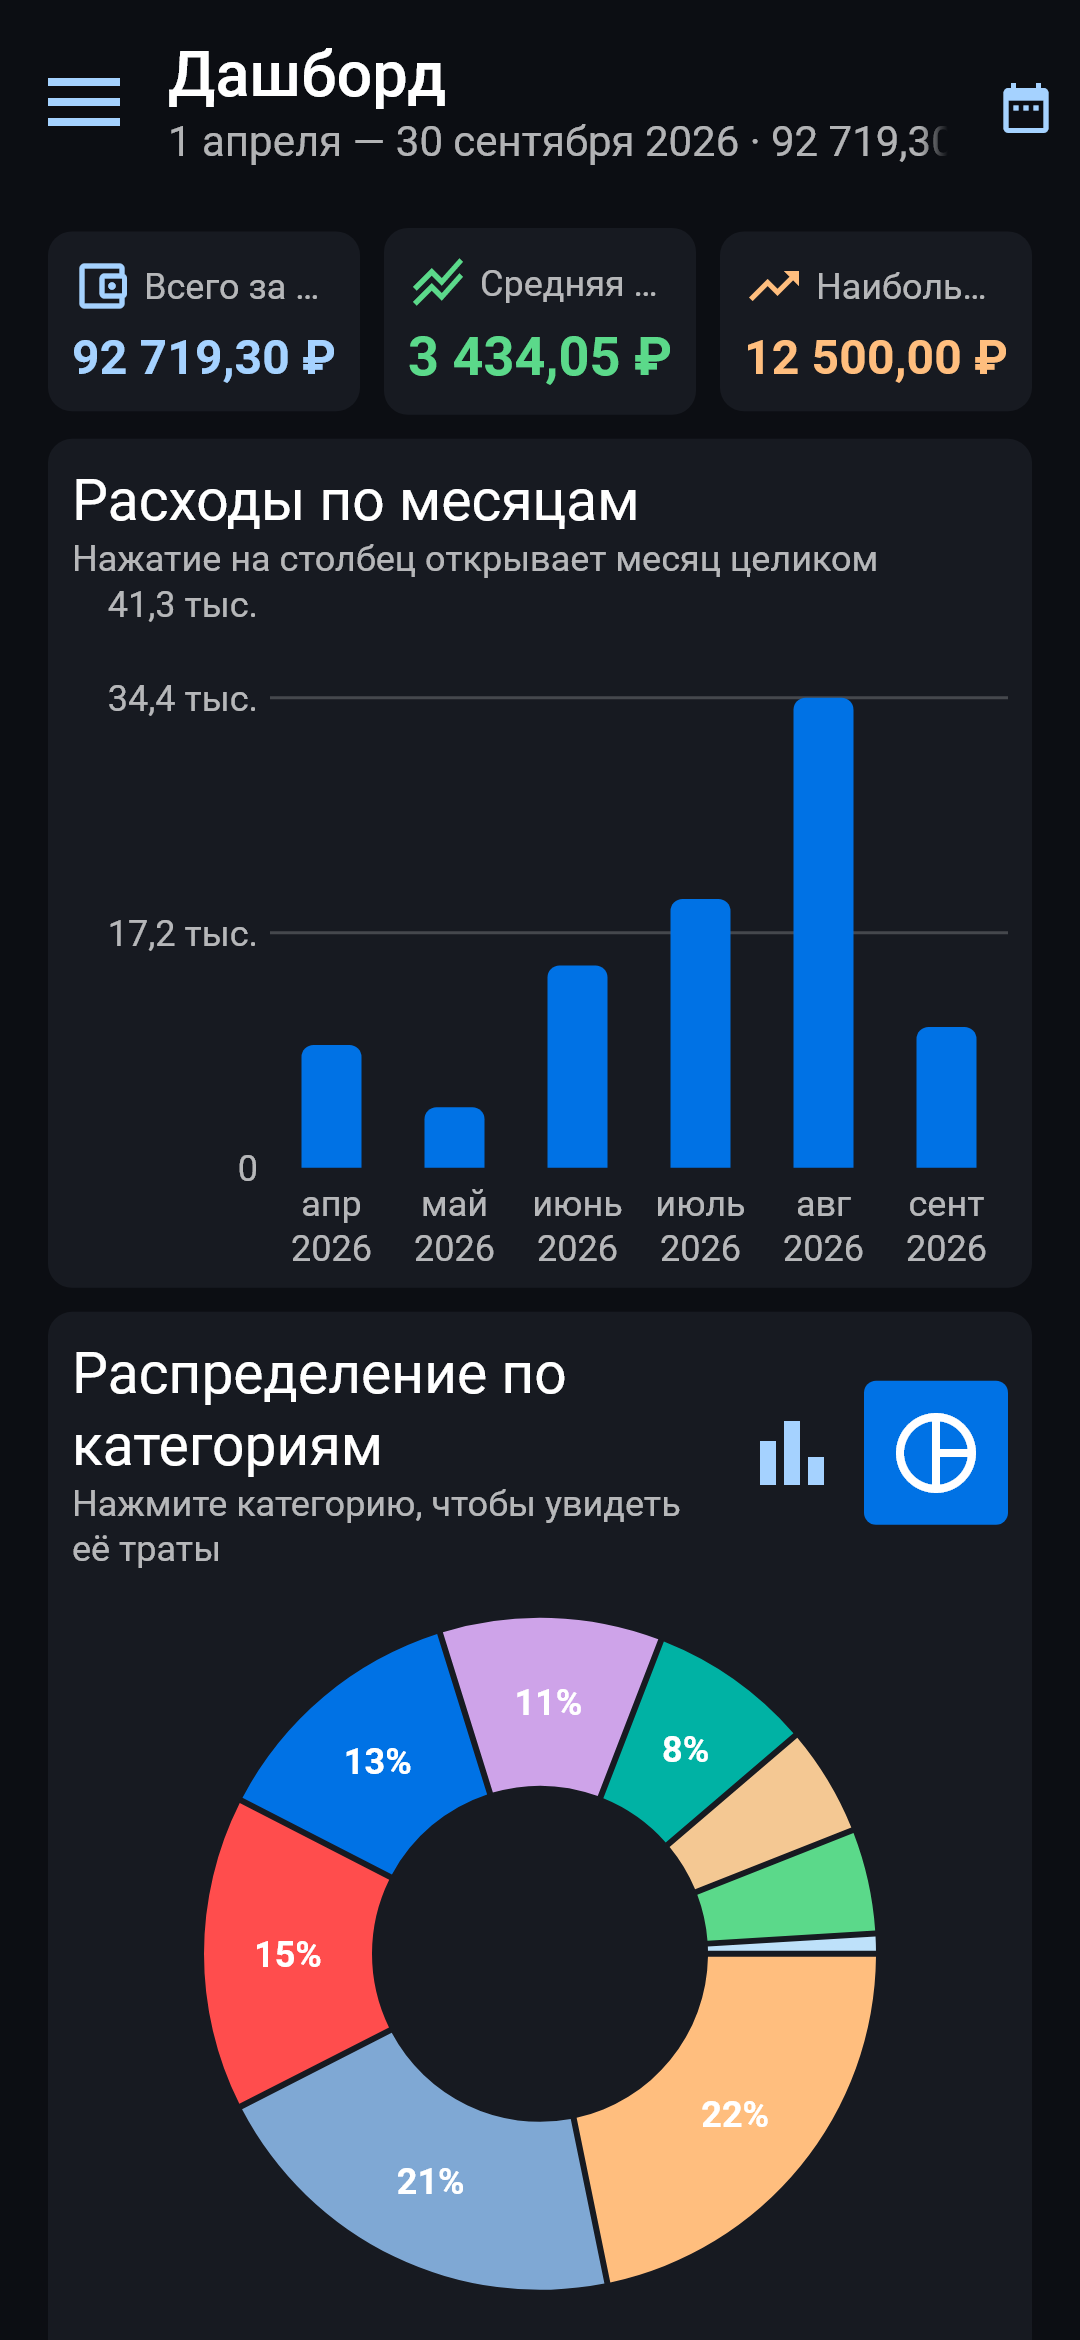
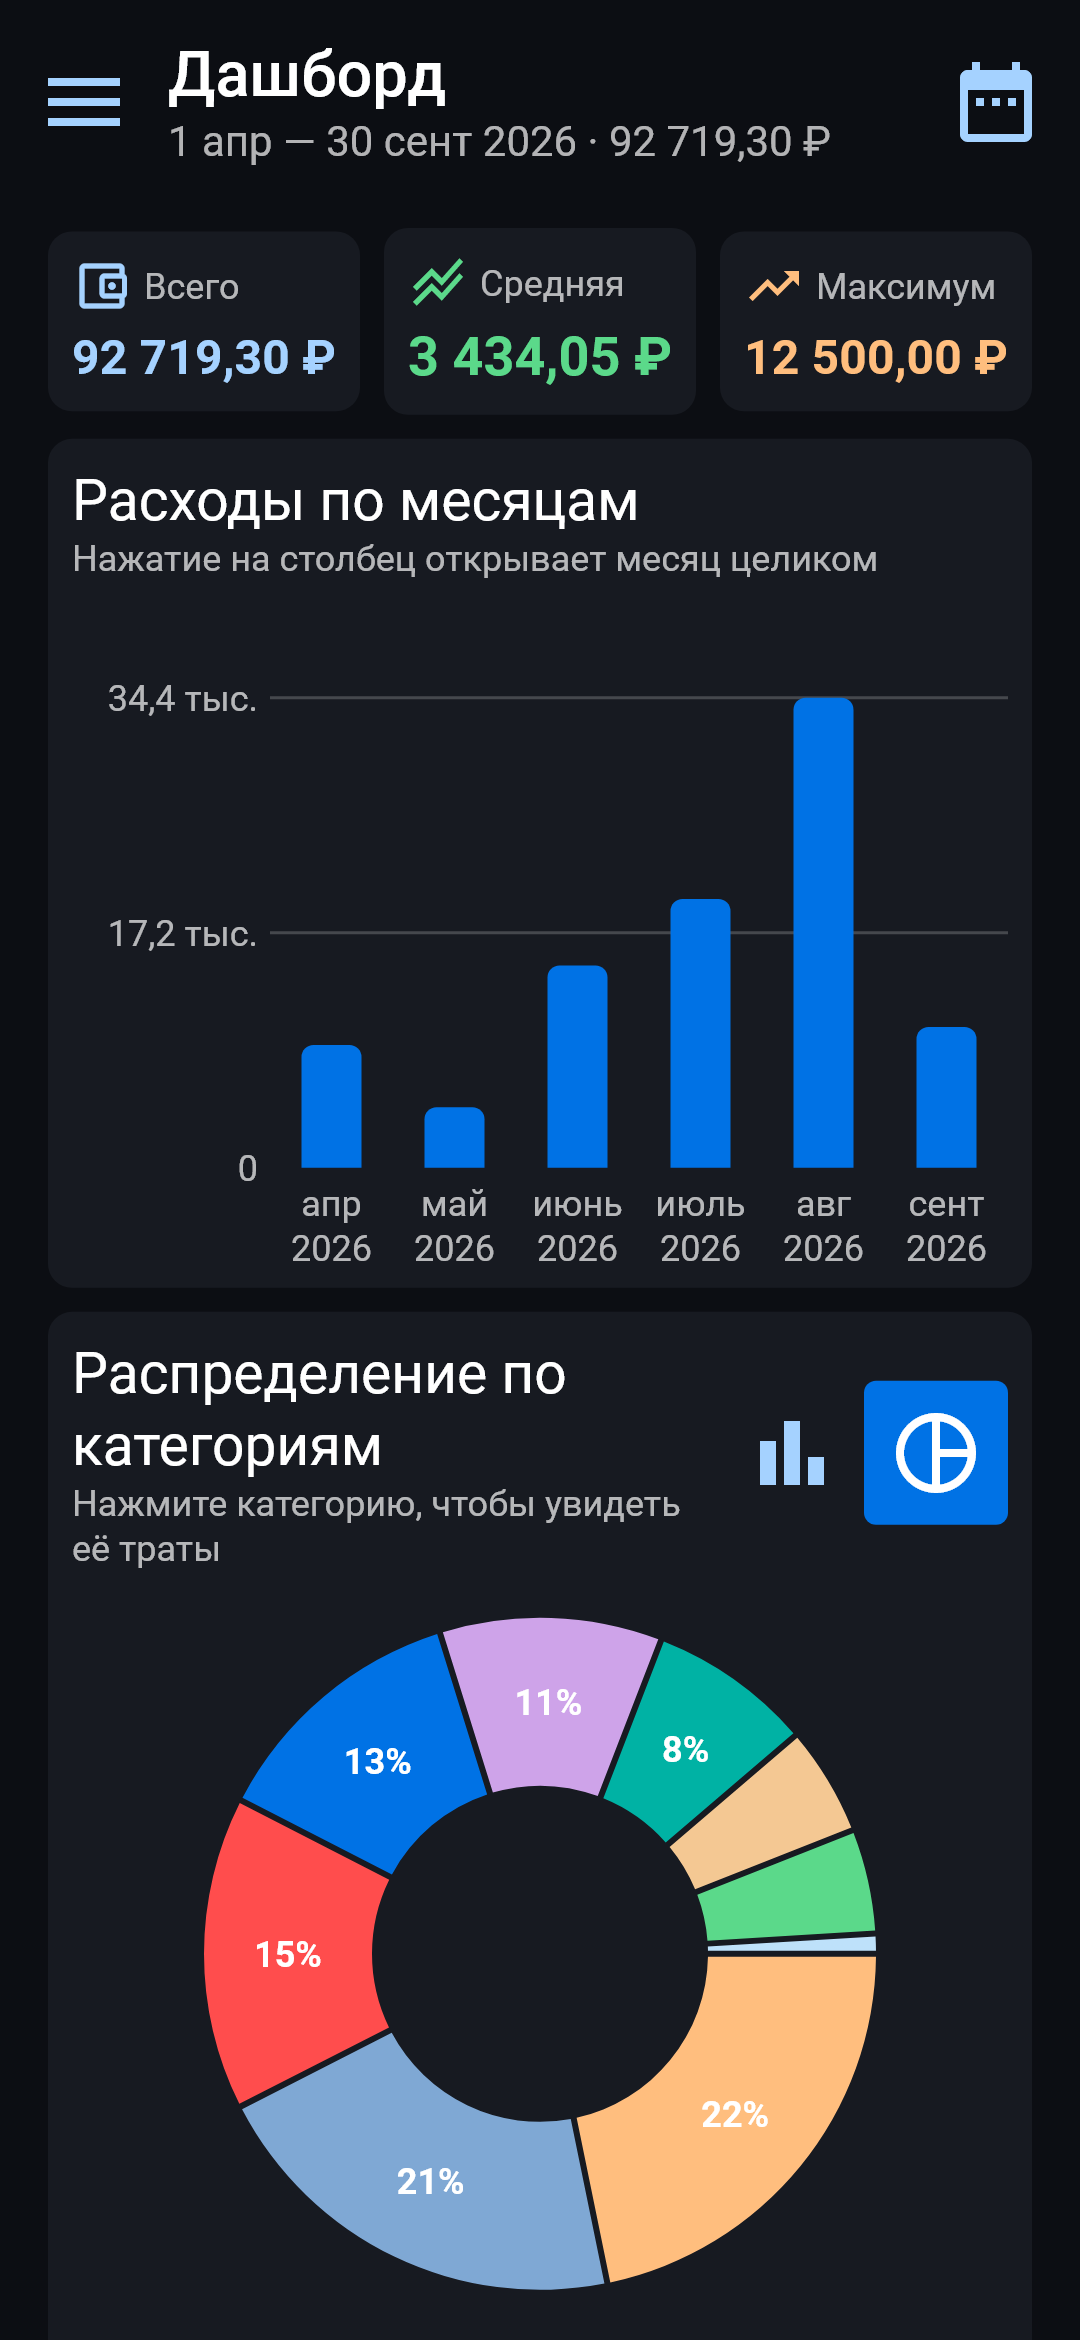
Подписи, которые обрезались на узком экране
- короткий формат периода в подзаголовке дашборда;
- короткие подписи плиток: «Всего», «Средняя», «Максимум»;
- верхняя граница оси диаграммы больше не подписывается.

diff --git a/test/tap_targets_test.dart b/test/tap_targets_test.dart
@@ -55,7 +55,10 @@ List<_Control> _controls(WidgetTester tester, List<Type> types) {
         continue;
       }
       final Iterable<Element> texts = find
-          .descendant(of: find.byWidget(element.widget), matching: find.byType(Text))
+          .descendant(
+            of: find.byWidget(element.widget),
+            matching: find.byType(Text),
+          )
           .evaluate();
       final String label = texts.isEmpty
           ? ''
@@ -99,23 +102,27 @@ void main() {
           expect(
             rect.left,
             greaterThanOrEqualTo(-tolerance),
-            reason: '$where: ${control.type} «${control.label}» '
+            reason:
+                '$where: ${control.type} «${control.label}» '
                 'выходит за левый край',
           );
           expect(
             rect.right,
             lessThanOrEqualTo(screen.width + tolerance),
-            reason: '$where: ${control.type} «${control.label}» '
+            reason:
+                '$where: ${control.type} «${control.label}» '
                 'выходит за правый край',
           );
           // Элементы, прокрученные за пределы экрана, не проверяем.
           final bool onScreen =
-              rect.top >= -tolerance && rect.bottom <= screen.height + tolerance;
+              rect.top >= -tolerance &&
+              rect.bottom <= screen.height + tolerance;
           if (onScreen) {
             expect(
               rect.height,
               greaterThanOrEqualTo(minTarget - tolerance),
-              reason: '$where: ${control.type} «${control.label}» '
+              reason:
+                  '$where: ${control.type} «${control.label}» '
                   'ниже минимальной цели нажатия',
             );
             if (control.type == IconButton ||
@@ -133,13 +140,15 @@ void main() {
           expect(
             control.rect.left,
             greaterThanOrEqualTo(-tolerance),
-            reason: '$where: ${control.type} «${control.label}» '
+            reason:
+                '$where: ${control.type} «${control.label}» '
                 'выходит за левый край',
           );
           expect(
             control.rect.right,
             lessThanOrEqualTo(screen.width + tolerance),
-            reason: '$where: ${control.type} «${control.label}» '
+            reason:
+                '$where: ${control.type} «${control.label}» '
                 'выходит за правый край',
           );
         }

diff --git a/lib/ui/screens/dashboard/dashboard_page.dart b/lib/ui/screens/dashboard/dashboard_page.dart
@@ -67,6 +67,15 @@ class _DashboardPageState extends State<DashboardPage> {
     return Formatters.range(range.start, range.end);
   }
 
+  /// Тот же период в коротком виде — для подзаголовка панели приложения.
+  String get _periodLabelShort {
+    final DateRange? range = _range;
+    if (range == null) {
+      return 'Всё время';
+    }
+    return Formatters.rangeShort(range.start, range.end);
+  }
+
   Future<void> _pickPeriod(DashboardPeriod period) async {
     if (period != DashboardPeriod.custom) {
       setState(() => _period = period);
@@ -194,7 +203,7 @@ class _DashboardPageState extends State<DashboardPage> {
     return Scaffold(
       appBar: AuroraAppBar(
         title: 'Дашборд',
-        subtitle: '$_periodLabel · ${Formatters.money(total)}',
+        subtitle: '$_periodLabelShort · ${Formatters.money(total)}',
         leading: widget.leading,
         actions: <Widget>[
           _PeriodButton(current: _period, onSelected: _pickPeriod),
@@ -276,7 +285,7 @@ class _StatsRow extends StatelessWidget {
       children: <Widget>[
         Expanded(
           child: AuroraStatTile(
-            label: 'Всего за период',
+            label: 'Всего',
             value: Formatters.money(total),
             icon: Icons.account_balance_wallet_outlined,
           ),
@@ -284,7 +293,7 @@ class _StatsRow extends StatelessWidget {
         const SizedBox(width: AuroraSizes.paddingMedium),
         Expanded(
           child: AuroraStatTile(
-            label: 'Средняя трата',
+            label: 'Средняя',
             value: Formatters.money(ExpenseAnalytics.average(expenses)),
             icon: Icons.stacked_line_chart,
             accent: palette.success,
@@ -293,7 +302,7 @@ class _StatsRow extends StatelessWidget {
         const SizedBox(width: AuroraSizes.paddingMedium),
         Expanded(
           child: AuroraStatTile(
-            label: 'Наибольшая',
+            label: 'Максимум',
             value: largest == null ? '—' : Formatters.money(largest.amount),
             icon: Icons.trending_up,
             accent: palette.warning,

diff --git a/lib/ui/screens/dashboard/charts.dart b/lib/ui/screens/dashboard/charts.dart
@@ -64,17 +64,23 @@ class MonthlyBarChart extends StatelessWidget {
                 showTitles: true,
                 reservedSize: 66,
                 interval: maxValue == 0 ? 1 : maxValue / 2,
-                getTitlesWidget: (double value, TitleMeta meta) => Padding(
-                  padding: const EdgeInsets.only(
-                    right: AuroraSizes.paddingSmall,
-                  ),
-                  child: Text(
-                    value == 0 ? '0' : Formatters.compactNumber(value),
-                    style: text.bodySmall,
-                    maxLines: 1,
-                    textAlign: TextAlign.right,
-                  ),
-                ),
+                getTitlesWidget: (double value, TitleMeta meta) {
+                  // Верхняя граница оси лежит выше сетки — её не подписываем.
+                  if (value > maxValue) {
+                    return const SizedBox.shrink();
+                  }
+                  return Padding(
+                    padding: const EdgeInsets.only(
+                      right: AuroraSizes.paddingSmall,
+                    ),
+                    child: Text(
+                      value == 0 ? '0' : Formatters.compactNumber(value),
+                      style: text.bodySmall,
+                      maxLines: 1,
+                      textAlign: TextAlign.right,
+                    ),
+                  );
+                },
               ),
             ),
             bottomTitles: AxisTitles(

diff --git a/lib/core/format/formatters.dart b/lib/core/format/formatters.dart
@@ -24,6 +24,7 @@ class Formatters {
   static final DateFormat _dayMonth = DateFormat('d MMMM', locale);
   static final DateFormat _monthYear = DateFormat('LLLL yyyy', locale);
   static final DateFormat _monthShort = DateFormat('LLL', locale);
+  static final DateFormat _dayMonthShort = DateFormat('d MMM', locale);
 
   /// Сумма с символом рубля: `1 234,50 ₽`.
   static String money(double value) => _money.format(value);
@@ -53,6 +54,16 @@ class Formatters {
   /// Короткое название месяца для оси диаграммы: `май`.
   static String monthShort(DateTime value) =>
       _monthShort.format(value).replaceAll('.', '');
+
+  /// Короткий период для подзаголовков: `1 апр — 30 сен 2026`.
+  static String rangeShort(DateTime start, DateTime end) {
+    String part(DateTime value) =>
+        _dayMonthShort.format(value).replaceAll('.', '');
+    if (start.year == end.year) {
+      return '${part(start)} — ${part(end)} ${end.year}';
+    }
+    return '${part(start)} ${start.year} — ${part(end)} ${end.year}';
+  }
 
   /// Период «с … по …» с опущенным повтором года.
   static String range(DateTime start, DateTime end) {

diff --git a/README.md b/README.md
@@ -268,7 +268,7 @@ aurora-cli psdk sign --path ./build --key ./keys/regular_key.pem --cert ./keys/r
 ```bash
 flutter pub get
 dart analyze          # ожидается «No issues found!»
-flutter test          # 100 тестов: логика, состояние, вёрстка
+flutter test          # 118 тестов: логика, состояние, вёрстка, кнопки
 flutter run -d windows
 ```
 
@@ -279,7 +279,9 @@ flutter run -d windows
 - операции состояния: траты, категории, командировки, импорт;
 - вёрстка — каждый экран проверяется на шести размерах экрана
   (от 320×640 до планшета 1280×800, включая альбомную ориентацию)
-  и при системном шрифте 130 %, переполнения не допускаются.
+  и при системном шрифте 130 %, переполнения не допускаются;
+- элементы управления — кнопки не выходят за края экрана и не меньше
+  цели нажатия 48×48.
 
 Вспомогательные команды:
 
